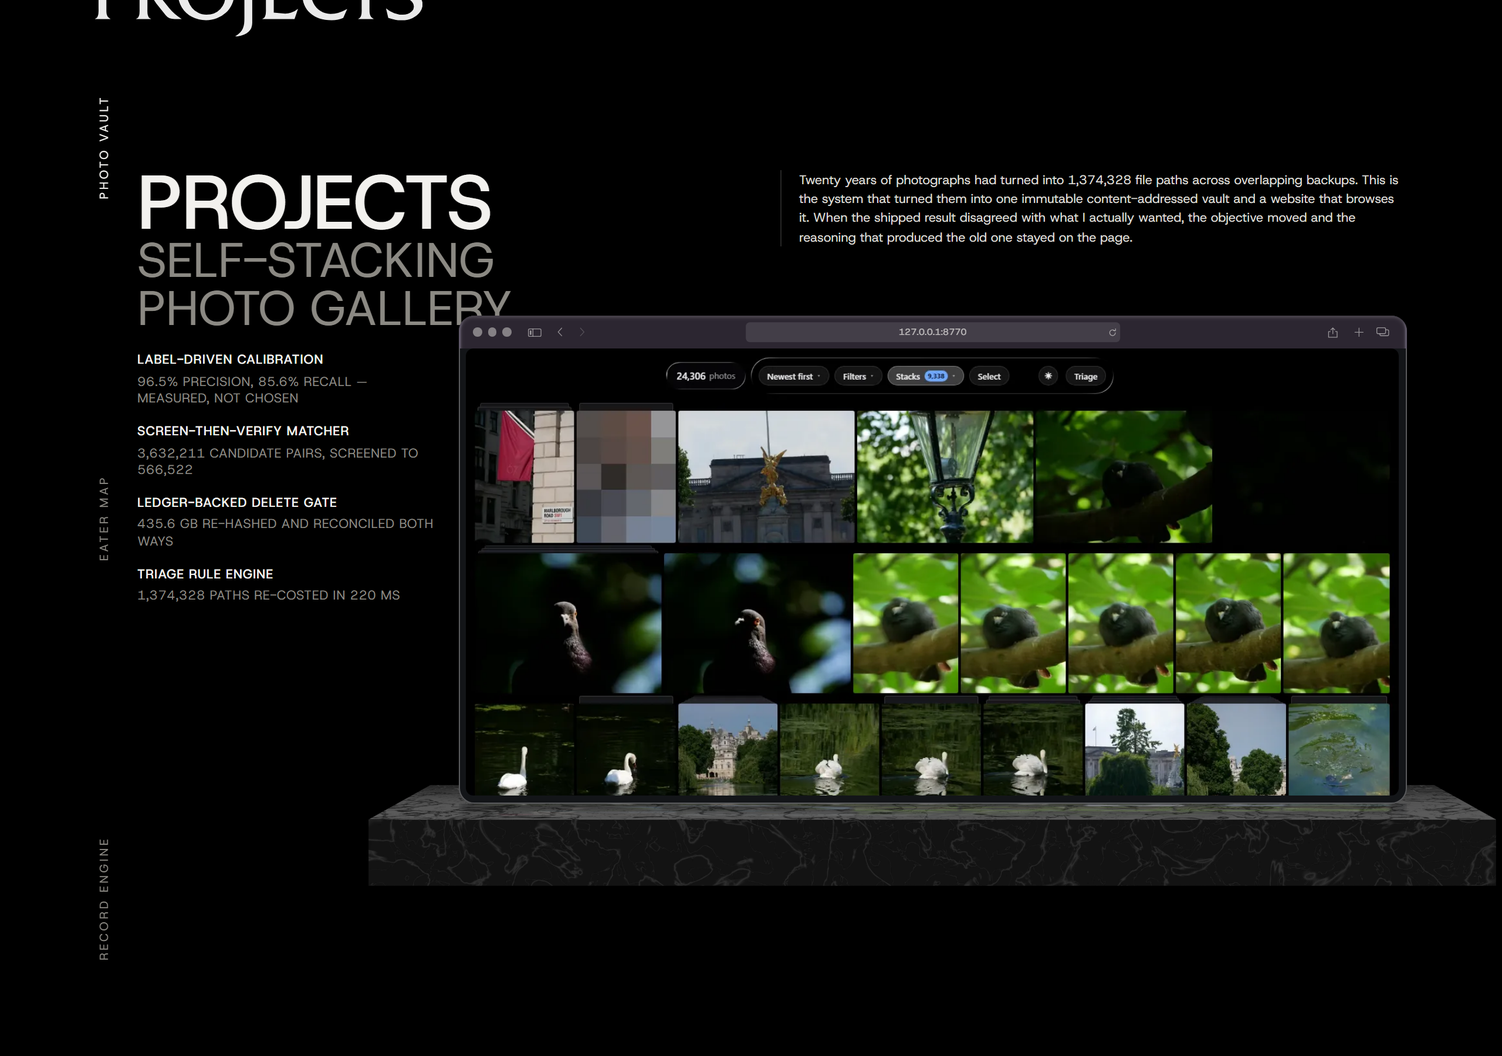
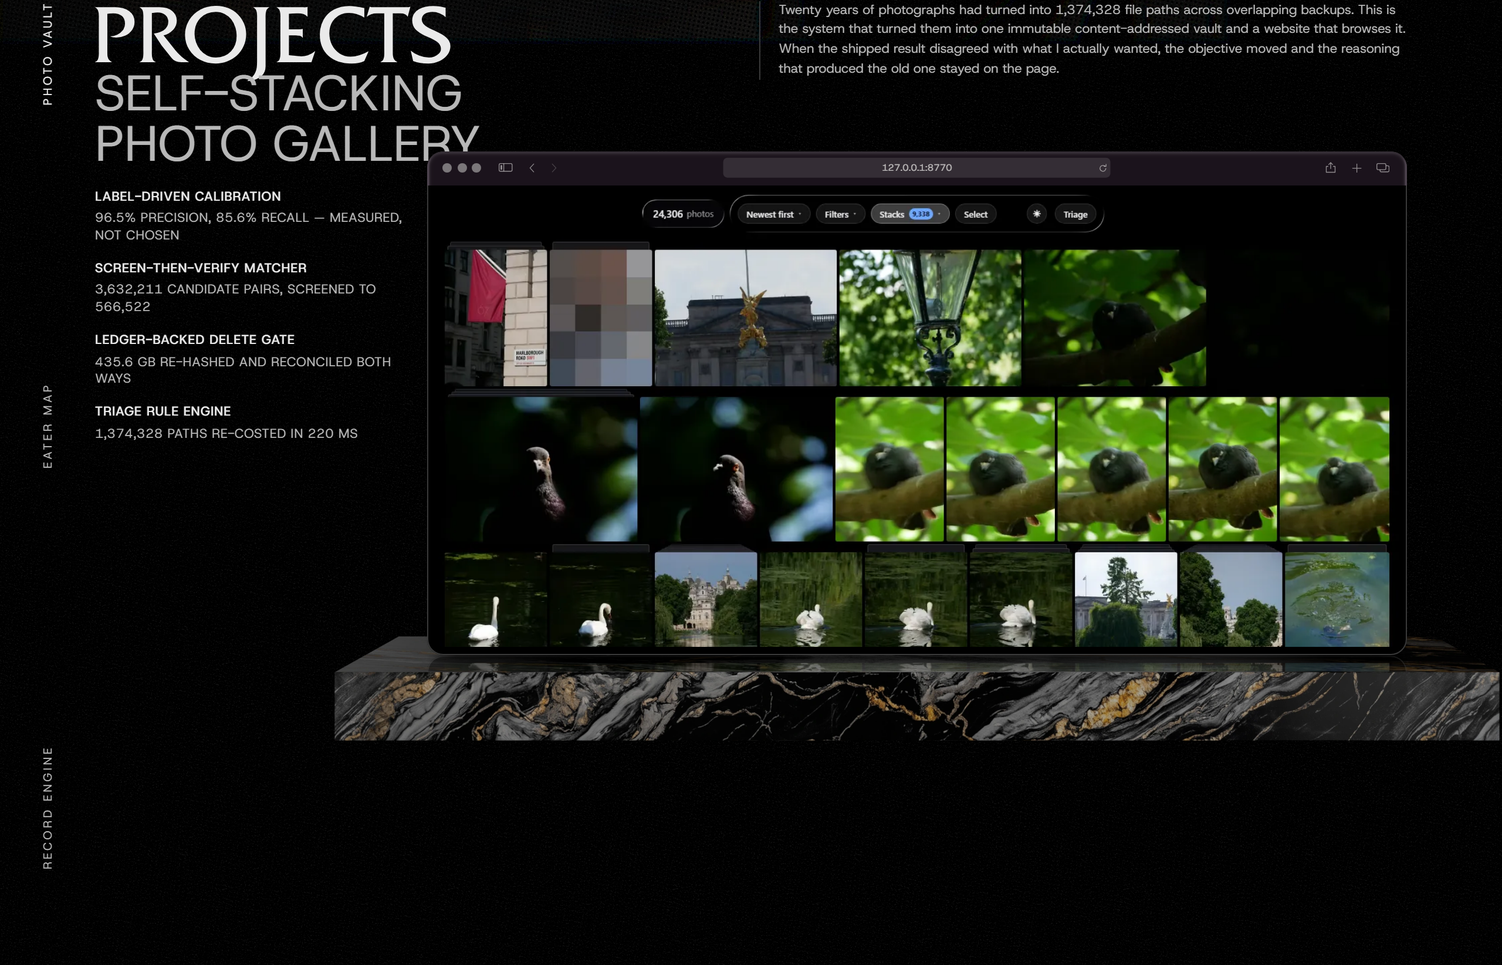
Stack the Panel where its composition stops fitting (#70)
The Projects Panel is one drawing solved to stand on one screen. Below the
band where that is possible it was still being drawn, and two things broke:
the body copy has no floor and fell to 6.2px at 820x1000, and the plinth's
left overhang landed on the engineering points — 41px of marble over TRIAGE
RULE ENGINE at 900px of width, clear only from 925 up.

So the gate becomes the sheet's own one-screen band, negated: the same
1100x700 the composing block and the landing are written against, and within
175px of where the drawing measurably stops fitting. It replaces
`(max-width: 900px) and (pointer: coarse), (max-width: 600px)`, which the
block it came from called a guess — and whose pointer clause made an 820px
tablet and an 820px browser window two different pages.

Outside the band the section stacks in #70's order — masthead, copy, Frame
with its plinth and reflection, then the points — with the Rail turned across
the top.

  - The section's side inset becomes --page-side, the flat 1.35rem .page has
    always used across, instead of --corner's 9vh. On a 390px phone that was
    152px of the 390 spent on margin against the CV's 43, so the composition
    had been given a third of the screen rather than being too big for it.
    --page-side is that literal given a name; its value is unchanged.

  - The Rail's size and gap are solved against the three names, so all three
    fit one line from 374px up, and `wrap` puts the third on a second line at
[…]

diff --git a/portfolio/styles.css b/portfolio/styles.css
@@ -584,6 +584,18 @@
   --corner: clamp(3rem, 9vh, 6.5rem);
   --rhyme: var(--corner);
   --name-half-leading: calc(0.294 * 0.78rem);
+  /* THE PAGE'S MARGIN ACROSS, which is the other half of what the paragraph
+     above says: --corner tracks the window's HEIGHT, so it is the wrong measure
+     the moment it is used as a horizontal inset. .page has always known that and
+     has always set its own left and right to a flat 1.35rem; this is that number
+     given a name, and the value is unchanged.
+     It is named because the Panel needs it. The section takes --corner on all
+     four sides, which is right while the composition is fitted to one screen and
+     the drawing is the thing setting the pace. Outside that band it stacks and is
+     as tall as it likes, and 9vh across is then 76px of white on each side of a
+     390px screen — 152 of the 390 spent on margin, against the 43 the CV
+     directly above it leaves. See the stacked block in the .panel section. */
+  --page-side: 1.35rem;
 
   /* ---- the cut title -------------------------------------------------------
      A display word dropped into the bottom corner and cut off by the end of the
@@ -1377,7 +1389,7 @@ body::after {
   display: flex;
   flex-direction: column;
   min-height: 100vh;
-  padding: var(--rhyme) 1.35rem 0;
+  padding: var(--rhyme) var(--page-side) 0;
 }
 .col {
   width: 100%;
@@ -3234,6 +3246,53 @@ body::after {
 /* 2.61% between new tab and tabs, less both half-widths */
 .frame-tabs  { width: 1.36cqw; margin-left: 1.415cqw; }
 
+/* ---- what is left of the chrome on a small Frame ----------------------------
+   #70. A share of the Frame's width is a glyph while the Frame is big and a
+   smudge once it is not, and every length in the block above is a share of the
+   Frame's width. At the 347px Frame a 390px phone gives this section, the back
+   chevron is 1.9px of box carrying a 0.28px stroke and the address is 3.3px
+   type: not small versions of themselves, but grey noise in the shape of a
+   titlebar. Both are DROPPED rather than approximated, which is the same stance
+   the stacked block below takes on the subheading's occlusion and for the same
+   reason — a thing drawn at a size it cannot be read at is worse than the thing
+   not being drawn.
+
+   A CONTAINER QUERY AND NOT A MEDIA QUERY, which is the whole reason this is
+   here rather than in the stacked block at the foot of the section. The question
+   is how wide the FRAME is, not how wide the window is, and the two come apart
+   in both directions: a wide window with the composition fitted to a short screen
+   draws a small Frame, and the reflection's clone is a .panel-frame of its own at
+   89.85% of the real one's width — so a viewport gate would strip the chrome off
+   the window and leave it in the reflection, or the other way about. .panel-frame
+   is already `container-type: inline-size` for the chrome's own sake, so the gate
+   costs nothing and lands on both copies by construction.
+
+   520px IS WHERE THE SMALLEST ENABLED GLYPH RUNS OUT. The back chevron is
+   0.54cqw, so 2.8px of box at this width, and its 1.5 stroke against a 10-unit
+   viewBox is 0.42px of ink — under half a device pixel at 1x and the last width
+   at which a hairline is a line at 2x. The address goes at the same point:
+   0.95cqw is 4.9px, which is below the smallest size any of the page's faces is
+   hinted for.
+
+   THE LIGHTS AND THE PILL STAY, and between them they are still unmistakably a
+   browser window: three discs of 4.9px and a rounded field across the middle.
+   The pill is left EMPTY rather than removed, which is not a degradation — it is
+   what the design render itself has, the address in it being authored here and
+   not measured. Nor does an empty field cost #57's user story 20 anything: what
+   that story is protecting against is a reader being TOLD the project is hosted
+   somewhere it is not, and a field with nothing in it says nothing. The whole
+   stage is `aria-hidden`, so no reader was ever offered the string either way. */
+@container (max-width: 520px) {
+  .frame-sidebar,
+  .frame-back,
+  .frame-fwd,
+  .frame-share,
+  .frame-new,
+  .frame-tabs,
+  .frame-reload,
+  .frame-url { display: none; }
+}
+
 /* ---- the window's content ---------------------------------------------------
    THE RECORDING DOES NOT REACH THE WINDOW'S EDGE, and the render is explicit
    about it: at every height sampled down the left side the outer rim is followed
@@ -3403,88 +3462,228 @@ body::after {
   color: var(--panel-muted);
 }
 
-/* ---- one column, on a phone, until #70 does this properly ------------------
-   The responsive reflow is its own change: the Rail becomes a horizontal row,
-   the Frame and its reflection survive at phone width, and the headline stops
-   being a scaled-down desktop. None of that is here. What IS here is the floor
-   under it — everything stacks in source order and the Frame keeps its space, so
-   a hand-held gets a plain page rather than a broken composition. The occlusion
-   is deliberately dropped rather than approximated: overlapping a line of type
-   at 380px wide hides the word instead of layering it.
+/* ---- one column, outside the band the composition is fitted to -------------
+   #70. The composition above is one drawing solved to stand on one screen: its
+   type, its gutters, its Frame and its plinth are all shares of a single width,
+   and that width is the smaller of what the page has across and what the fit
+   constant says the height will carry. This block is what happens where that
+   stops being possible — the section becomes a single column that is as tall as
+   it needs to be, in the order #70 asks for: masthead, body copy, the Frame with
+   its plinth and its reflection, then the engineering points, with the Rail
+   turned across the top.
 
-   IT ASKS WHETHER THIS IS A PHONE, AND NOT WHETHER THE WINDOW IS NARROW, which
-   is the whole of what changed here. `max-width: 900px` on its own was a guess
-   at the same question and it caught the wrong things: a 1280x720 laptop is
-   nowhere near it and used to get a composition that ran off the bottom of the
-   screen, while any browser window dragged narrow on a desktop got the phone
-   page. The composition now scales to fit rather than assuming a size, so there
-   is nothing left for a width gate to protect against until the pointer says a
-   finger — `pointer: coarse` — and the screen agrees. The second clause is the
-   backstop for the genuinely tiny window on a mouse-driven machine, where the
-   drawing would be scaled below the point its floors can hold it up.
+   THE GATE IS THE SHEET'S OWN ONE-SCREEN BAND, NEGATED, and it is the same
+   1100x700 the composing block near the top and the landing at the foot are
+   written against. That is the point of it: the composition IS the one-screen
+   regime's drawing — it is the thing the cut word lands in the masthead slot of,
+   it is what the two snap ports are placed around, and its width is solved from
+   --fold. Outside the band none of that applies, and the drawing was being asked
+   to hold anyway.
 
-   Both numbers are choices and neither is a measurement, which is the same thing
-   the 900 it replaces admitted. #70 is where they get replaced by something
-   derived. */
-@media (max-width: 900px) and (pointer: coarse), (max-width: 600px) {
+   IT DOES NOT HOLD, and the two failures are measured rather than a matter of
+   taste. Both come out of the same place: the copy has no floor — it cannot have
+   one, the .panel type scale says why — while the points and the Rail do, so
+   below a certain size the drawing stops being self-similar and the floored parts
+   start outgrowing the space the shares left them.
+
+     THE COPY GOES PAST READING. 6.2px at 820x1000, which is the harness's own
+     tablet, against the 10.5px a 1280x720 laptop gets — and that one the type
+     scale already names as the honest floor of the trade.
+
+     THE PLINTH LANDS ON THE ENGINEERING POINTS. Its left end overhangs the
+     Frame by a column — the .panel-plinth block is explicit that this is the
+     render's own arrangement — and the points, whose type has stopped shrinking
+     while their column has not, wrap onto enough lines to reach down into the
+     band of marble beside them. Swept at 900px of viewport height on the tree
+     this block replaces: 41px of slab over TRIAGE RULE ENGINE at 900px of width,
+     26px at 625, and clear from 925px up. The .panel-stage block is explicit
+     that the Frame is allowed to occlude the subheading and is not allowed to eat
+     the list, and it is the stone rather than the window that eats it.
+
+   So the drawing is clear of itself from about 925px, and the band's own edge is
+   175px above that — the same answer twice over, with margin.
+
+   WHICH REPLACES TWO NUMBERS THAT WERE ADMITTEDLY GUESSES. It was
+   `(max-width: 900px) and (pointer: coarse), (max-width: 600px)`, and the pointer
+   clause is the one worth naming: it made a 820px tablet and a 820px browser
+   window two different pages, and it was the touch one that got the readable
+   page. Nothing in here is about fingers — there is nothing to tap — so there is
+   nothing for `pointer` to be asking. */
+@media not all and (min-width: 1100px) and (min-height: 700px) {
   .panel {
-    /* No height term, and no fit to solve for: the stack is taller than a screen
-       by design, so the drawing takes the width it is given and the floors on
-       the small sizes do the rest. */
-    --panel-w: calc(100vw - 2 * var(--corner));
+    /* No height term and no fit to solve for: the stack is taller than a screen
+       by design, so the drawing takes the width it is given.
+
+       --page-side AND NOT --corner, which is the single change that makes the
+       rest of this block a phone page rather than a narrow desktop one. The
+       section takes --corner on all four sides above, and --corner is 9vh — a
+       vertical measure, and the :root block that declares it says in as many
+       words that a margin tracking the window's height reads as an error the
+       moment it is used across. On a 390x844 phone it is 76px a side, so the
+       composition got 238 of 390 while the CV directly above it, which has
+       always set its own sides to --page-side, got 347. The drawing was not too
+       big for the screen; it had been given a third of one. Top and bottom keep
+       --corner, where it is measuring the thing it was written for. */
+    --panel-w: calc(100vw - 2 * var(--page-side));
     --panel-frame-w: var(--panel-w);
-    /* The three that have no floor of their own — see the type scale. Two of
-       them are the composition's height up there and the third is measured
-       against a row that is a stated height; none of that is true here, where
-       the section stacks and is as tall as it needs to be. So they get sizes
-       rather than shares: a share of a phone's width is a 15px masthead and a
-       2px paragraph. These are what a phone would have been given if it had ever
-       been drawn for one, and #70 is where it actually is. */
+    /* The five sizes, and every one of them is a size rather than a share. The
+       scale above is shares of --panel-w because the drawing is self-similar at
+       every width it is fitted to; here the drawing is as wide as the page and
+       the page can be 390px, where 0.0598 of the composition is a 21px masthead
+       and 0.0100 of it is a 3px paragraph. #70 asks for a headline that stays
+       readable, and a headline that is a share of a phone's width is exactly the
+       scaled-down desktop it asks for instead.
+
+       THE MASTHEAD AND THE SUBHEADING KEEP THEIR RATIO, which is the one thing
+       the .panel type scale says to preserve if either is ever re-chosen by eye:
+       12 over 7.5 is 1.60 against the render's 1.59, so the two still read as one
+       masthead. The vw terms are what carry the drawing between a 390px phone and
+       the 1099px window at the top of this block's range; the floors are for the
+       320px screen below it and the ceilings stop the head from eating a wide
+       stacked window on its own.
+
+       --panel-small-size and --panel-rail-size get sizes here too, and their
+       floors above go with them. Those floors are stated in px against a 16px
+       rem because inside the one-screen band the root's font-size is solved from
+       the window and a rem is not the reader's. Outside the band it is, so these
+       are in rem and they answer to the reader's own text size. */
     --panel-masthead-size: clamp(2.5rem, 12vw, 5rem);
     --panel-sub-size:      clamp(1.5rem, 7.5vw, 3rem);
     --panel-copy-size:     clamp(0.85rem, 3.8vw, 1.05rem);
+    --panel-small-size:    clamp(0.8rem, 3.2vw, 0.95rem);
+    --panel-rail-size:     clamp(0.7rem, 2.9vw, 0.9rem);
+    /* One rhythm for the whole stack, so the head, the copy, the Frame and the
+       points are spaced by one number rather than by four margins that drift. */
+    --panel-stack-gap: clamp(1.5rem, 5vw, 2.5rem);
+
+    padding: var(--corner) var(--page-side);
     grid-template-columns: minmax(0, 1fr);
     justify-content: stretch;
     align-items: stretch;
-    row-gap: clamp(1.5rem, 4vh, 2.5rem);
+    row-gap: var(--panel-stack-gap);
   }
+  /* ---- the Rail, turned across the top ------------------------------------
+     Three names in a row instead of three down an edge, and the selection is
+     still the only thing that says which — white against grey, exactly as it is
+     down the side. What it needed was room and a size: at the 10px floor the
+     column wears, in a composition that had been squeezed to 238px, the three
+     names measured 305px against a box of 229 and RECORD ENGINE was cut off by
+     the section's own `overflow-x: clip`. A Rail that does not name the third
+     project is not a Rail.
+
+     THE SIZE AND THE GAP ARE SOLVED TOGETHER AGAINST THE THREE NAMES, because
+     RECORD ENGINE at 0.22em of tracking is a long word. At 12px the three
+     measure 321, which leaves 11px for two gaps in the 332 a 375px screen gives
+     the composition — so the third name goes onto a line of its own at the
+     commonest phone width there is. The 0.7rem floor brings them to 299 and the
+     0.9rem gap floor takes the row to 328: one line from 374px of window up,
+     which is both common iPhone widths. The ceilings let the pair grow again on
+     a stacked window.
+
+     `wrap` UNDERNEATH THAT, because 360 and 320 are real screens and neither
+     fits: they put RECORD ENGINE on a second line rather than losing it to the
+     section's own `overflow-x: clip`, which is what happened before — 305px of
+     names in a 229px box, and the third project simply not named. Between the two
+     the list cannot overflow at any width, which is half of #70's no-horizontal-
+     scroll criterion; the other half is the slab, which is clipped rather than
+     fitted, below.
+
+     `baseline` and not the column's `center`: turned across, these are three
+     lines of type on one line and they sit on it. */
   .panel-rail {
     flex-direction: row;
+    flex-wrap: wrap;
     justify-content: flex-start;
-    gap: clamp(1rem, 5vw, 2rem);
+    align-items: baseline;
+    column-gap: clamp(0.9rem, 4vw, 2rem);
+    row-gap: 0.5em;
   }
   .panel-rail li { writing-mode: horizontal-tb; transform: none; }
+  /* ---- the stack ----------------------------------------------------------
+     Twelve columns become one, both rows become auto, and the four blocks are
+     placed again — because #70's order is not the source order. The markup is
+     written in the composition's own reading order, where the points sit to the
+     LEFT of the Frame in row two and so come before it; stacked, the ticket asks
+     for the Frame directly under the copy with the points last. Stated as rows
+     here rather than reordered in the markup, so the composition above keeps the
+     document order it was written for. Nothing in the stage is focusable or in
+     the accessibility tree — the whole box is `aria-hidden` and none of the
+     chrome is a control — so there is no reading order for this to disagree
+     with. */
   .panel-inner {
     grid-template-columns: minmax(0, 1fr);
     grid-template-rows: none;
     align-self: stretch;
+    row-gap: var(--panel-stack-gap);
   }
   .panel-head, .panel-copy, .panel-points, .panel-stage {
-    grid-area: auto;
+    grid-column: 1;
     align-self: auto;
   }
-  /* The slab loses its overhang and becomes exactly as wide as the window it
-     holds up. There is no column to hang off here — the twelve-column grid is a
-     single column on a phone — and a plinth wider than the Frame with nothing on
-     either side of it would just be a wider slab. #70 owns the real reflow. */
-  .panel-stage > .panel-frame { margin-left: 0; }
-  /* The slab keeps its proportion to the Frame — a block narrower at the back
-     than the window standing on it would have the Frame's foot hanging off its
-     own plinth — so only the offset changes, by the same 8.5110% the Frame gave
-     up. The reflection is stated against the SLAB and so needs no rule here. */
-  .panel-plinth { margin-left: -8.5110%; }
-  /* The hanging second line goes back into its own box: with nothing beside it
-     and nothing over it, a head that stopped short of its own ink would just
-     collide with the paragraph below. */
+  .panel-head   { grid-row: 1; }
+  .panel-copy   { grid-row: 2; }
+  .panel-stage  { grid-row: 3; }
+  .panel-points { grid-row: 4; }
+  /* The hanging second line goes back into its own box, and the occlusion with
+     it. It is dropped rather than approximated: the Frame is the full width of
+     the column here, so a window laid over the subheading would cover the line
+     rather than bite a quarter off the letters — hiding the word instead of
+     layering it. --panel-frame-drop is what the stage gave up with it. */
   .panel-head { margin-bottom: 0; }
-  .panel-points { margin-top: clamp(1.5rem, 4vh, 2.5rem); }
+  .panel-stage { margin-top: 0; }
+  /* The row gap is the whole of the spacing now, so the list's own top margin —
+     one subheading line plus air, which is what cleared the hanging line beside
+     the Frame — has nothing left to clear. Its INTERNAL gap stays a share of the
+     drawing and so had shrunk to 4px at phone width, which ran the four points
+     together into one block of type; a multiple of their own size holds them
+     apart at every width instead. */
+  .panel-points {
+    margin-top: 0;
+    row-gap: calc(1.35 * var(--panel-small-size));
+  }
+  /* The rule moves from the paragraph's left edge to its top, which is where a
+     divider goes when the thing it divides is above rather than beside.
+
+     AND THE PARAGRAPH GETS A MEASURE. Beside the Frame it is six columns of
+     twelve and its line length is settled by the grid; across the whole page it
+     is not, and at the top of this block's range that is a 1055px line at 16.8px
+     — 133 characters measured, near twice anything is read at. 34em of its own
+     size is 571px and 72, which is the long end of the usual range and the right
+     end to be at: the paragraph is five lines there and the block above it is an
+     80px masthead, so a narrower measure would read as a column of caption under
+     a poster. On a phone the column is narrower than the cap and nothing here
+     applies — 50 characters at 390px. */
   .panel-copy {
     border-left: 0;
     border-top: 1px solid var(--panel-rule);
-    padding: clamp(1rem, 3vh, 1.5rem) 0 0;
-    margin-top: clamp(1rem, 3vh, 1.5rem);
+    padding: var(--panel-stack-gap) 0 0;
+    max-width: 34em;
   }
-  .panel-stage { margin-top: clamp(1.5rem, 4vh, 2.5rem); }
+  /* ---- the plinth, re-solved for a Frame that fills the stage ---------------
+     THE SLAB IS 1.189439 FRAME WIDTHS AND IS CENTRED ON THE FRAME, always: the
+     plate is rendered at exactly that aspect ratio, the reflection and the
+     contact shadow are both stated as 7.9633% of the slab because that is where
+     the Frame's edges fall on it, and design/plinth/build-slab.py frames its
+     camera on the same numbers. It is not a proportion this block is free to
+     change — it is the shape of the picture.
+
+     The percentages above cannot come through unchanged, because they are shares
+     of the STAGE and the Frame is not the same share of the stage here. Up there
+     the stage is 0.831281 of the composition and the Frame 0.746923, so the Frame
+     is 89.8517% of the box and the overhang 8.5110% of it; here the Frame fills
+     the stage, so the same overhang is 9.4719% and the slab 118.9439%. Carried
+     over as they stood, the block came out 10% narrow and — because only its left
+     margin had been re-stated — asymmetric: it overhung by 8.5% on the left while
+     ending 1.6% SHORT of the Frame's right foot, which is a window standing off
+     the end of its own plinth. The reflection inherited the error exactly, since
+     it is stated as a share of the slab: the mirror came out 10.2% narrower than
+     the window lying in it, at every width the stack was drawn at.
+     Both are one number each, and both are the render's. */
+  .panel-stage > .panel-frame { margin-left: 0; }
+  .panel-plinth {
+    margin-left: -9.4719%;
+    width: 118.9439%;
+  }
 }
 
 /* ============================================================================

diff --git a/design/shots/index.html b/design/shots/index.html
@@ -16,12 +16,22 @@
 </style></head>
 <body>
   <h1>Typography variants</h1>
-  <p class="meta">1 renders · generated by <code>design/tools/render.mjs</code> · scale 2x ·
+  <p class="meta">3 renders · generated by <code>design/tools/render.mjs</code> · scale 2x ·
      glass <code>auto</code> · click any image for full size.
      Definitions live in <code>design/variants.css</code>.</p>
     <section><h2>panel · desktop · dark</h2><div class="strip">
         <figure>
-          <figcaption><b>asis</b> <span>Host Grotesk 10.9px · glass webgl</span></figcaption>
+          <figcaption><b>asis</b> <span>Host Grotesk 11.2px · glass webgl</span></figcaption>
           <a href="panel__asis__dark__desktop.png" target="_blank" rel="noopener"><img src="panel__asis__dark__desktop.png" alt="asis" loading="lazy"></a>
+        </figure></div></section>
+    <section><h2>panel · mobile · dark</h2><div class="strip">
+        <figure>
+          <figcaption><b>asis</b> <span>Host Grotesk 14.8px · glass webgl</span></figcaption>
+          <a href="panel__asis__dark__mobile.png" target="_blank" rel="noopener"><img src="panel__asis__dark__mobile.png" alt="asis" loading="lazy"></a>
+        </figure></div></section>
+    <section><h2>panel · tablet · dark</h2><div class="strip">
+        <figure>
+          <figcaption><b>asis</b> <span>Host Grotesk 16.8px · glass webgl</span></figcaption>
+          <a href="panel__asis__dark__tablet.png" target="_blank" rel="noopener"><img src="panel__asis__dark__tablet.png" alt="asis" loading="lazy"></a>
         </figure></div></section>
 </body></html>
